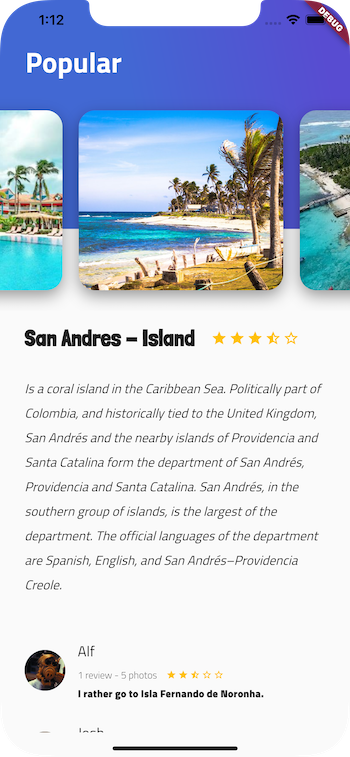
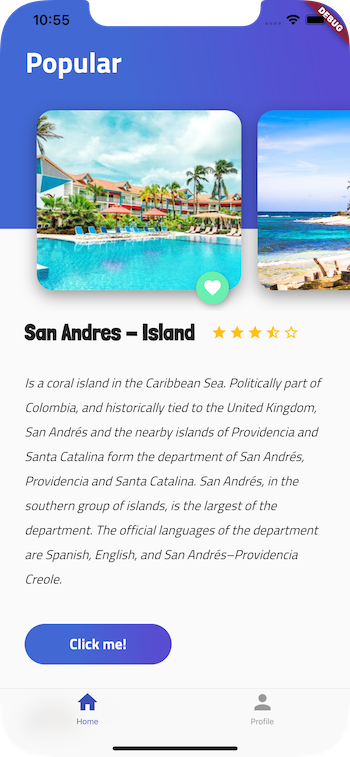
Fav Button + Cupertino NavBar + General polish

diff --git a/lib/ui/place/place.dart b/lib/ui/place/place.dart
@@ -1,41 +1,24 @@
 import 'package:flutter/material.dart';
-import 'package:trips_app/ui/place/review/review.dart';
+import 'package:trips_app/components/main_button.dart';
+import 'package:trips_app/ui/place/review/review_list.dart';
 import 'description/description.dart';
 
 class Place extends StatelessWidget {
   @override
   Widget build(BuildContext context) {
     return Container(
-      margin:
-          EdgeInsets.only(top: 350.0, left: 30.0, right: 30.0, bottom: 30.0),
-      child: ListView(
-        children: [
-          Description('San Andres - Island', 3.4,
-              '''Is a coral island in the Caribbean Sea. Politically part of Colombia, and historically tied to the United Kingdom, San Andrés and the nearby islands of Providencia and Santa Catalina form the department of San Andrés, Providencia and Santa Catalina. San Andrés, in the southern group of islands, is the largest of the department. The official languages of the department are Spanish, English, and San Andrés–Providencia Creole.
+        margin:
+            EdgeInsets.only(top: 390.0, left: 30.0, right: 30.0, bottom: 30.0),
+        child: ListView(
+          children: [
+            Description(
+                title: 'San Andres - Island',
+                rating: 3.4,
+                description:
+                    '''Is a coral island in the Caribbean Sea. Politically part of Colombia, and historically tied to the United Kingdom, San Andrés and the nearby islands of Providencia and Santa Catalina form the department of San Andrés, Providencia and Santa Catalina. San Andrés, in the southern group of islands, is the largest of the department. The official languages of the department are Spanish, English, and San Andrés–Providencia Creole.
                     '''),
-          Review(
-              "https://tse4.mm.bing.net/th?id=OIP.Kb246C_dlssJkFR02VXWJwHaEy&pid=Api",
-              "Alf",
-              1,
-              5,
-              2.5,
-              "I rather go to Isla Fernando de Noronha."),
-          Review(
-              "https://tse1.mm.bing.net/th?id=OIP.OyOn3zJ9IaYaPnNXMIJ6PQHaF3&pid=Api",
-              "Josh",
-              3,
-              10,
-              4.5,
-              "Great beaches!"),
-          Review(
-              "https://dz8z45gu0xcif.cloudfront.net/wp-content/uploads/2018/10/29101620/alf-99.jpg",
-              "Lynn",
-              4,
-              20,
-              5.0,
-              "Fantastic place! Highly recommended!")
-        ],
-      ),
-    );
+            ReviewList()
+          ],
+        ));
   }
 }

diff --git a/lib/components/main_button.dart b/lib/components/main_button.dart
@@ -1,0 +1,39 @@
+import 'package:flutter/material.dart';
+import 'package:google_fonts/google_fonts.dart';
+
+class MainButton extends StatelessWidget {
+  String buttonText;
+
+  MainButton({this.buttonText});
+
+  @override
+  Widget build(BuildContext context) {
+    return InkWell(
+      onTap: () {
+        Scaffold.of(context)
+            // ScaffoldMessenger does not work with Cupertino BottomNav
+            // ignore: deprecated_member_use
+            .showSnackBar(SnackBar(content: Text("Hello, you!")));
+      },
+      child: Container(
+        margin: EdgeInsets.only(top: 10.0, right: 20.0, bottom: 20.0),
+        height: 50.0,
+        width: 180.0,
+        decoration: BoxDecoration(
+            borderRadius: BorderRadius.circular(30.0),
+            gradient: LinearGradient(
+                colors: [Color(0xFF4268D3), Color(0xFF584CD1)],
+                begin: FractionalOffset(0.1, 0.25),
+                end: FractionalOffset(0.9, 0.0),
+                stops: [0.3, 1.0])),
+        child: Center(
+          child: Text(buttonText,
+              style: GoogleFonts.cairo(
+                  color: Colors.white,
+                  fontSize: 18.0,
+                  fontWeight: FontWeight.w800)),
+        ),
+      ),
+    );
+  }
+}

diff --git a/lib/ui/place/review/components/review_info.dart b/lib/ui/place/review/components/review_info.dart
@@ -1,6 +1,6 @@
 import 'package:flutter/material.dart';
 import 'package:google_fonts/google_fonts.dart';
-import 'package:trips_app/ui/common/stars_rating.dart';
+import 'package:trips_app/components/stars_rating.dart';
 
 class ReviewInfo extends StatelessWidget {
   String userName;
@@ -14,13 +14,14 @@ class ReviewInfo extends StatelessWidget {
 
   @override
   Widget build(BuildContext context) {
-    return Column(
+    return Expanded(
+        child: Column(
       crossAxisAlignment: CrossAxisAlignment.start,
       mainAxisAlignment: MainAxisAlignment.spaceEvenly,
       children: [
         nameW(userName),
         Row(
-          mainAxisAlignment: MainAxisAlignment.spaceAround,
+          mainAxisAlignment: MainAxisAlignment.start,
           children: [
             detailsW(reviews, photos),
             StarsRating(currentReview, 12.5)
@@ -28,7 +29,7 @@ class ReviewInfo extends StatelessWidget {
         ),
         commentW(comment)
       ],
-    );
+    ));
   }
 }
 

diff --git a/lib/trips_pages.dart b/lib/trips_pages.dart
@@ -1,0 +1,28 @@
+import 'package:flutter/material.dart';
+import 'package:flutter/cupertino.dart';
+import 'package:trips_app/pages/home.dart';
+import 'package:trips_app/pages/profile.dart';
+
+// Handles bottom navigation behavior
+class TripsPages extends StatelessWidget {
+  final List<Widget> pages = [Home(), Profile()];
+  @override
+  Widget build(BuildContext context) {
+    return Scaffold(
+      bottomNavigationBar: CupertinoTabScaffold(
+          tabBar: CupertinoTabBar(
+            activeColor: Colors.indigo,
+            items: [
+              BottomNavigationBarItem(icon: Icon(Icons.home), label: "Home"),
+              BottomNavigationBarItem(
+                  icon: Icon(Icons.person), label: "Profile")
+            ],
+          ),
+          tabBuilder: (BuildContext context, int index) {
+            return CupertinoTabView(
+              builder: (BuildContext context) => pages[index],
+            );
+          }),
+    );
+  }
+}

diff --git a/lib/ui/place/review/review_list.dart b/lib/ui/place/review/review_list.dart
@@ -1,0 +1,33 @@
+import 'package:flutter/material.dart';
+import 'review.dart';
+
+class ReviewList extends StatelessWidget {
+  @override
+  Widget build(BuildContext context) {
+    return Column(
+      children: [
+        Review(
+            "https://tse4.mm.bing.net/th?id=OIP.Kb246C_dlssJkFR02VXWJwHaEy&pid=Api",
+            "Alf",
+            1,
+            5,
+            2.5,
+            "I rather go to Isla Fernando de Noronha."),
+        Review(
+            "https://tse1.mm.bing.net/th?id=OIP.OyOn3zJ9IaYaPnNXMIJ6PQHaF3&pid=Api",
+            "Josh",
+            3,
+            10,
+            4.5,
+            "Great beaches!"),
+        Review(
+            "https://dz8z45gu0xcif.cloudfront.net/wp-content/uploads/2018/10/29101620/alf-99.jpg",
+            "Lynn",
+            4,
+            20,
+            5.0,
+            "Fantastic place! Highly recommended! Really well services, enjoyed a lot!")
+      ],
+    );
+  }
+}

diff --git a/lib/ui/place/description/description.dart b/lib/ui/place/description/description.dart
@@ -1,4 +1,5 @@
 import 'package:flutter/material.dart';
+import 'package:trips_app/components/main_button.dart';
 import 'package:trips_app/ui/place/description/description_body.dart';
 import 'package:trips_app/ui/place/description/description_header.dart';
 
@@ -7,14 +8,16 @@ class Description extends StatelessWidget {
   double rating;
   String description;
 
-  Description(this.title, this.rating, this.description);
+  Description({this.title, this.rating, this.description});
 
   @override
   Widget build(BuildContext context) {
     final placeContents = Column(
+      crossAxisAlignment: CrossAxisAlignment.start,
       children: [
         DescriptionHeader(title, rating),
-        DescriptionBody(description)
+        DescriptionBody(description),
+        MainButton(buttonText: "Click me!")
       ],
     );
 

diff --git a/lib/components/fav_button.dart b/lib/components/fav_button.dart
@@ -1,0 +1,28 @@
+import 'package:flutter/material.dart';
+
+class FavButton extends StatefulWidget {
+  @override
+  State<StatefulWidget> createState() {
+    return _FavButton();
+  }
+}
+
+class _FavButton extends State<FavButton> {
+  bool _pressed = false;
+
+  void onFavPressed() {
+    setState(() {
+      _pressed = !this._pressed;
+    });
+  }
+
+  @override
+  Widget build(BuildContext context) {
+    return FloatingActionButton(
+      onPressed: onFavPressed,
+      backgroundColor: Colors.greenAccent,
+      mini: true,
+      child: Icon(this._pressed ? Icons.favorite : Icons.favorite_border),
+    );
+  }
+}

diff --git a/lib/main.dart b/lib/main.dart
@@ -1,6 +1,5 @@
 import 'package:flutter/material.dart';
-import 'ui/place/header/header_app_bar.dart';
-import 'package:trips_app/ui/place/place.dart';
+import 'package:trips_app/trips_pages.dart';
 
 void main() => runApp(TripsApp());
 
@@ -15,10 +14,7 @@ class TripsApp extends StatelessWidget {
         ErrorWidget.builder = (FlutterErrorDetails errorDetails) => error;
         return widget;
       },
-      home: Scaffold(
-          body: Stack(
-        children: [Place(), HeaderAppBar()],
-      )),
+      home: TripsPages(),
     );
   }
 }

diff --git a/lib/components/header_app_bar.dart b/lib/components/header_app_bar.dart
@@ -1,12 +1,16 @@
 import 'package:flutter/material.dart';
 import 'header_gradient.dart';
-import 'pictures/pictures_list.dart';
+import '../ui/place/header/pictures/pictures_list.dart';
 
 class HeaderAppBar extends StatelessWidget {
+  final String title;
+
+  HeaderAppBar(this.title);
+
   @override
   Widget build(BuildContext context) {
     return Stack(
-      children: <Widget>[HeaderGradient("Popular"), PicturesList()],
+      children: <Widget>[HeaderGradient(title), PicturesList()],
     );
   }
 }

diff --git a/lib/ui/place/review/review.dart b/lib/ui/place/review/review.dart
@@ -1,6 +1,6 @@
 import 'package:flutter/material.dart';
-import 'package:trips_app/ui/place/review/review_info.dart';
-import 'package:trips_app/ui/place/review/review_pic.dart';
+import 'package:trips_app/ui/place/review/components/review_info.dart';
+import 'package:trips_app/ui/place/review/components/review_pic.dart';
 
 class Review extends StatelessWidget {
   String picturePath;

diff --git a/lib/components/picture.dart b/lib/components/picture.dart
@@ -1,4 +1,5 @@
 import 'package:flutter/material.dart';
+import 'package:trips_app/components/fav_button.dart';
 
 class Picture extends StatelessWidget {
   String url;
@@ -24,6 +25,9 @@ class Picture extends StatelessWidget {
           ]),
     );
 
-    return pic;
+    return Stack(
+      alignment: Alignment(0.9, 1.15),
+      children: [pic, FavButton()],
+    );
   }
 }

diff --git a/lib/pages/home.dart b/lib/pages/home.dart
@@ -1,0 +1,13 @@
+import 'package:flutter/material.dart';
+import 'package:trips_app/ui/place/header/header.dart';
+import 'package:trips_app/ui/place/place.dart';
+
+class Home extends StatelessWidget {
+  @override
+  Widget build(BuildContext context) {
+    return Scaffold(
+        body: Stack(
+      children: [Place(), Header()],
+    ));
+  }
+}
